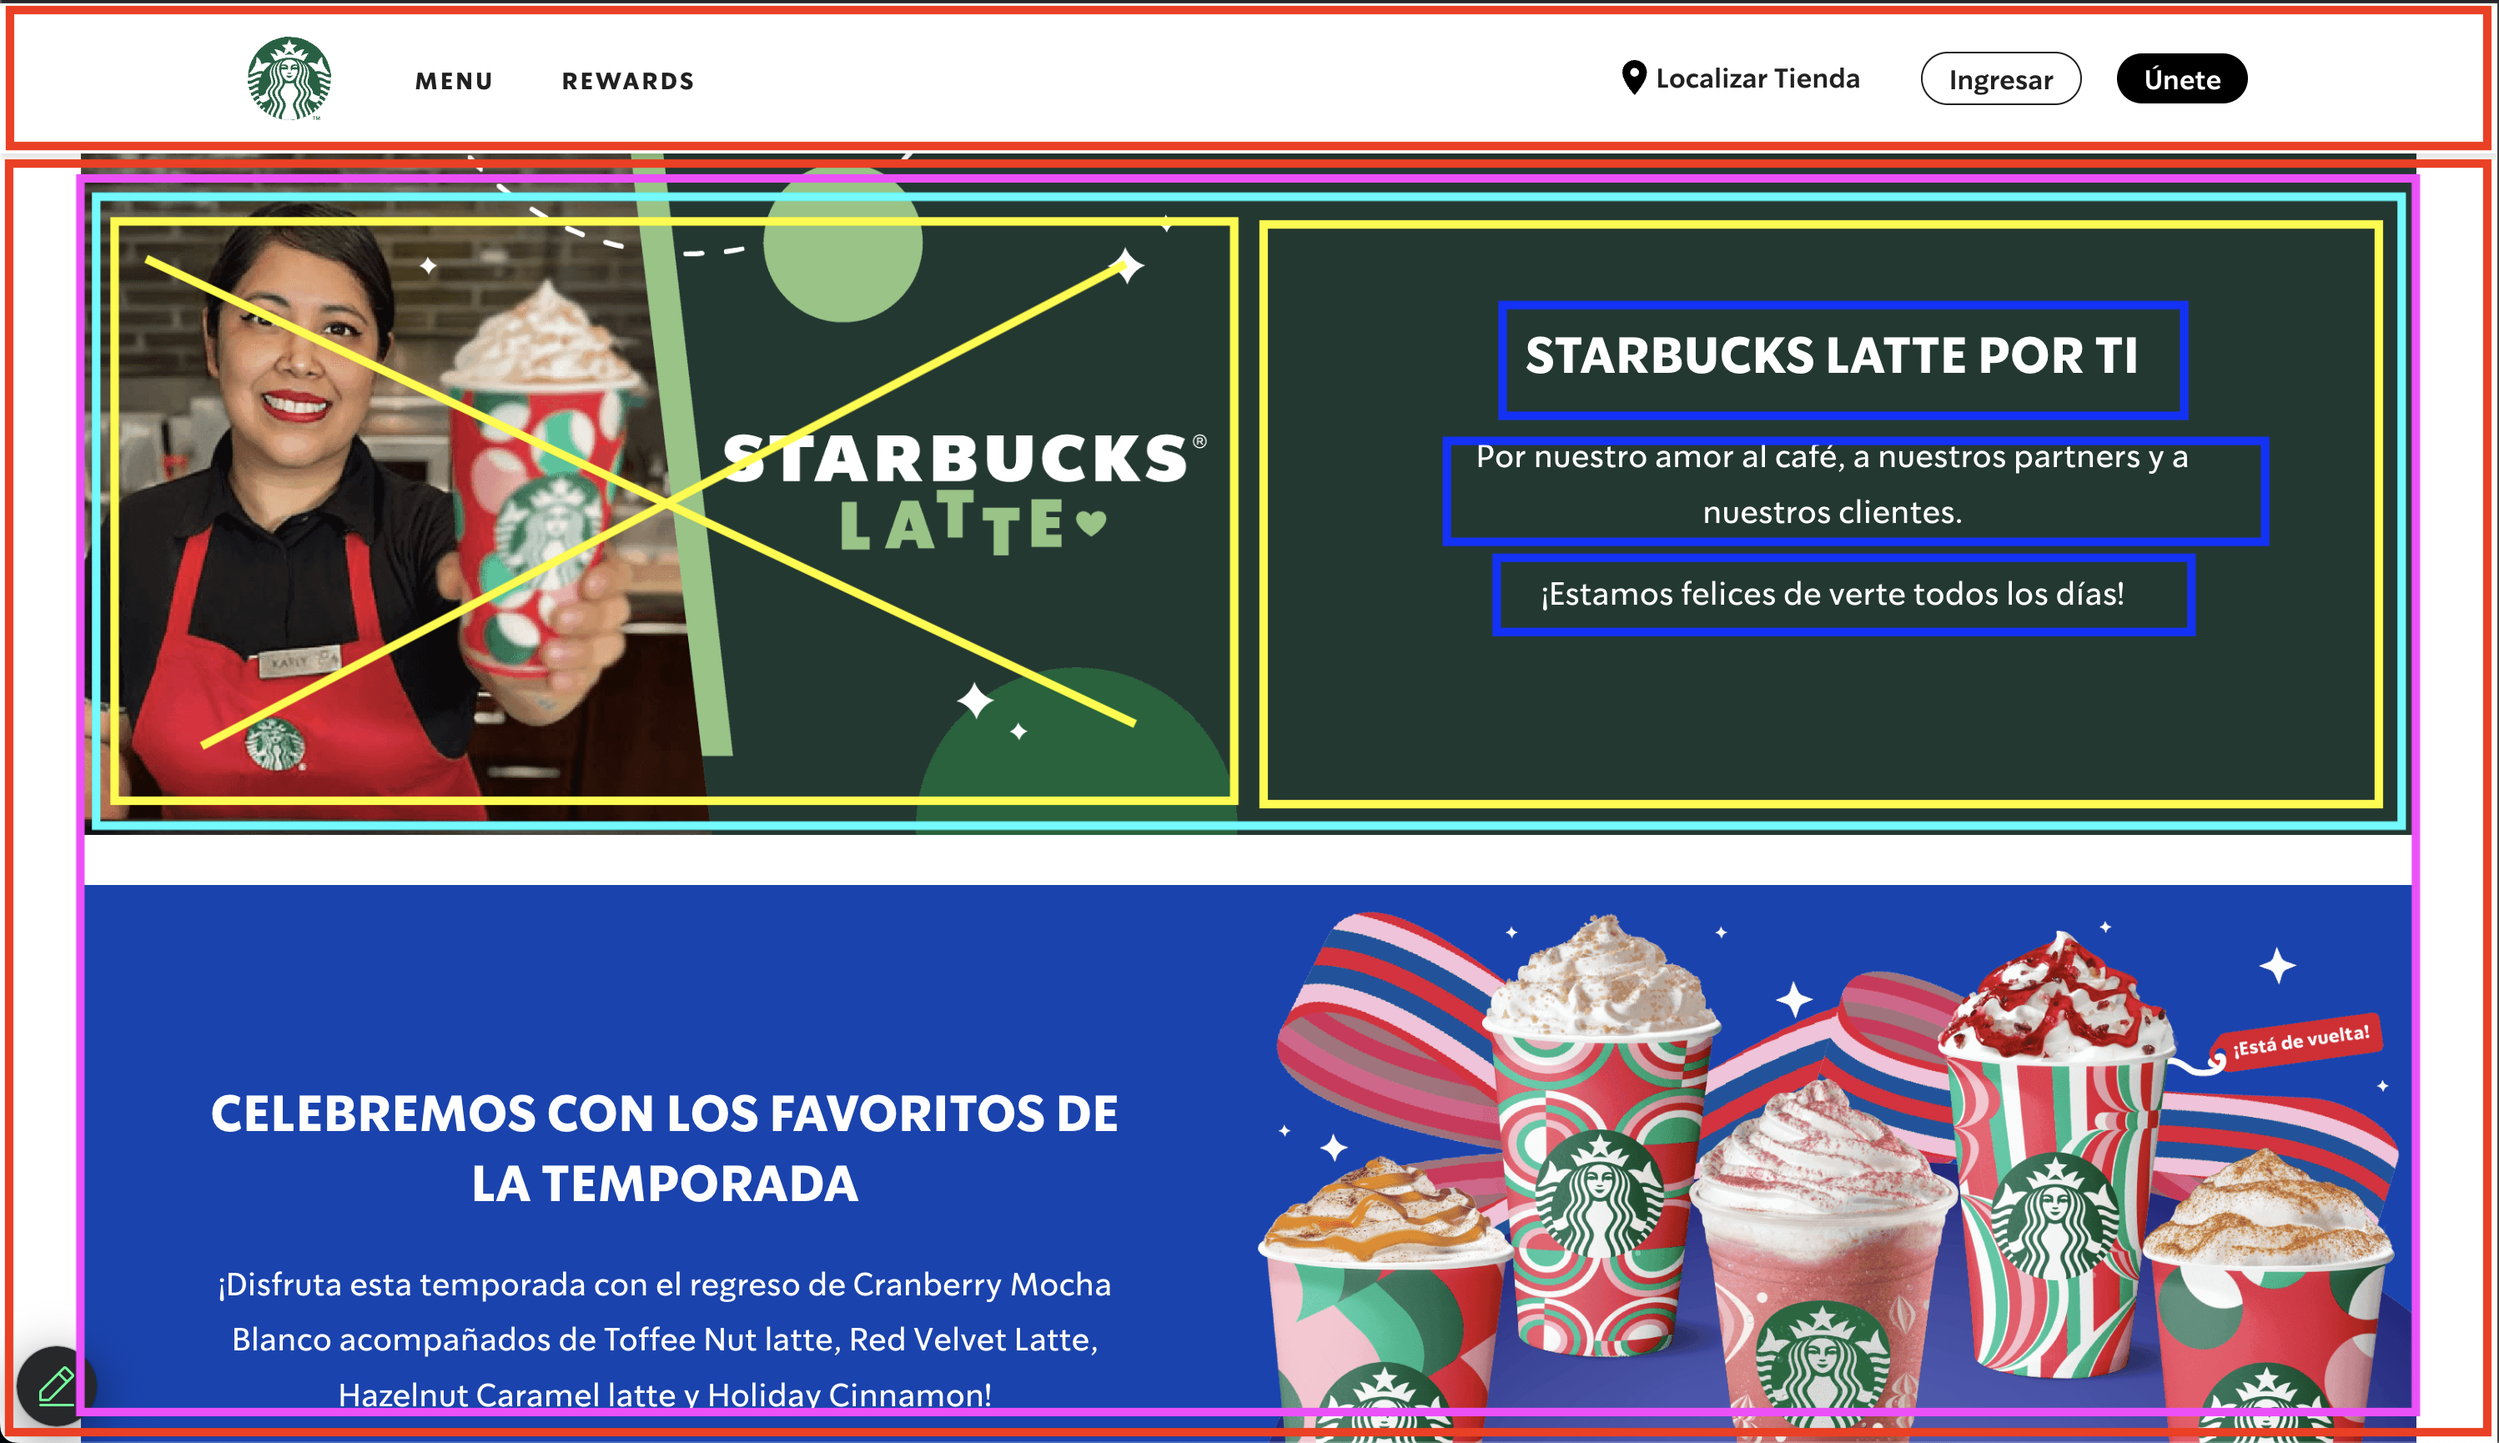
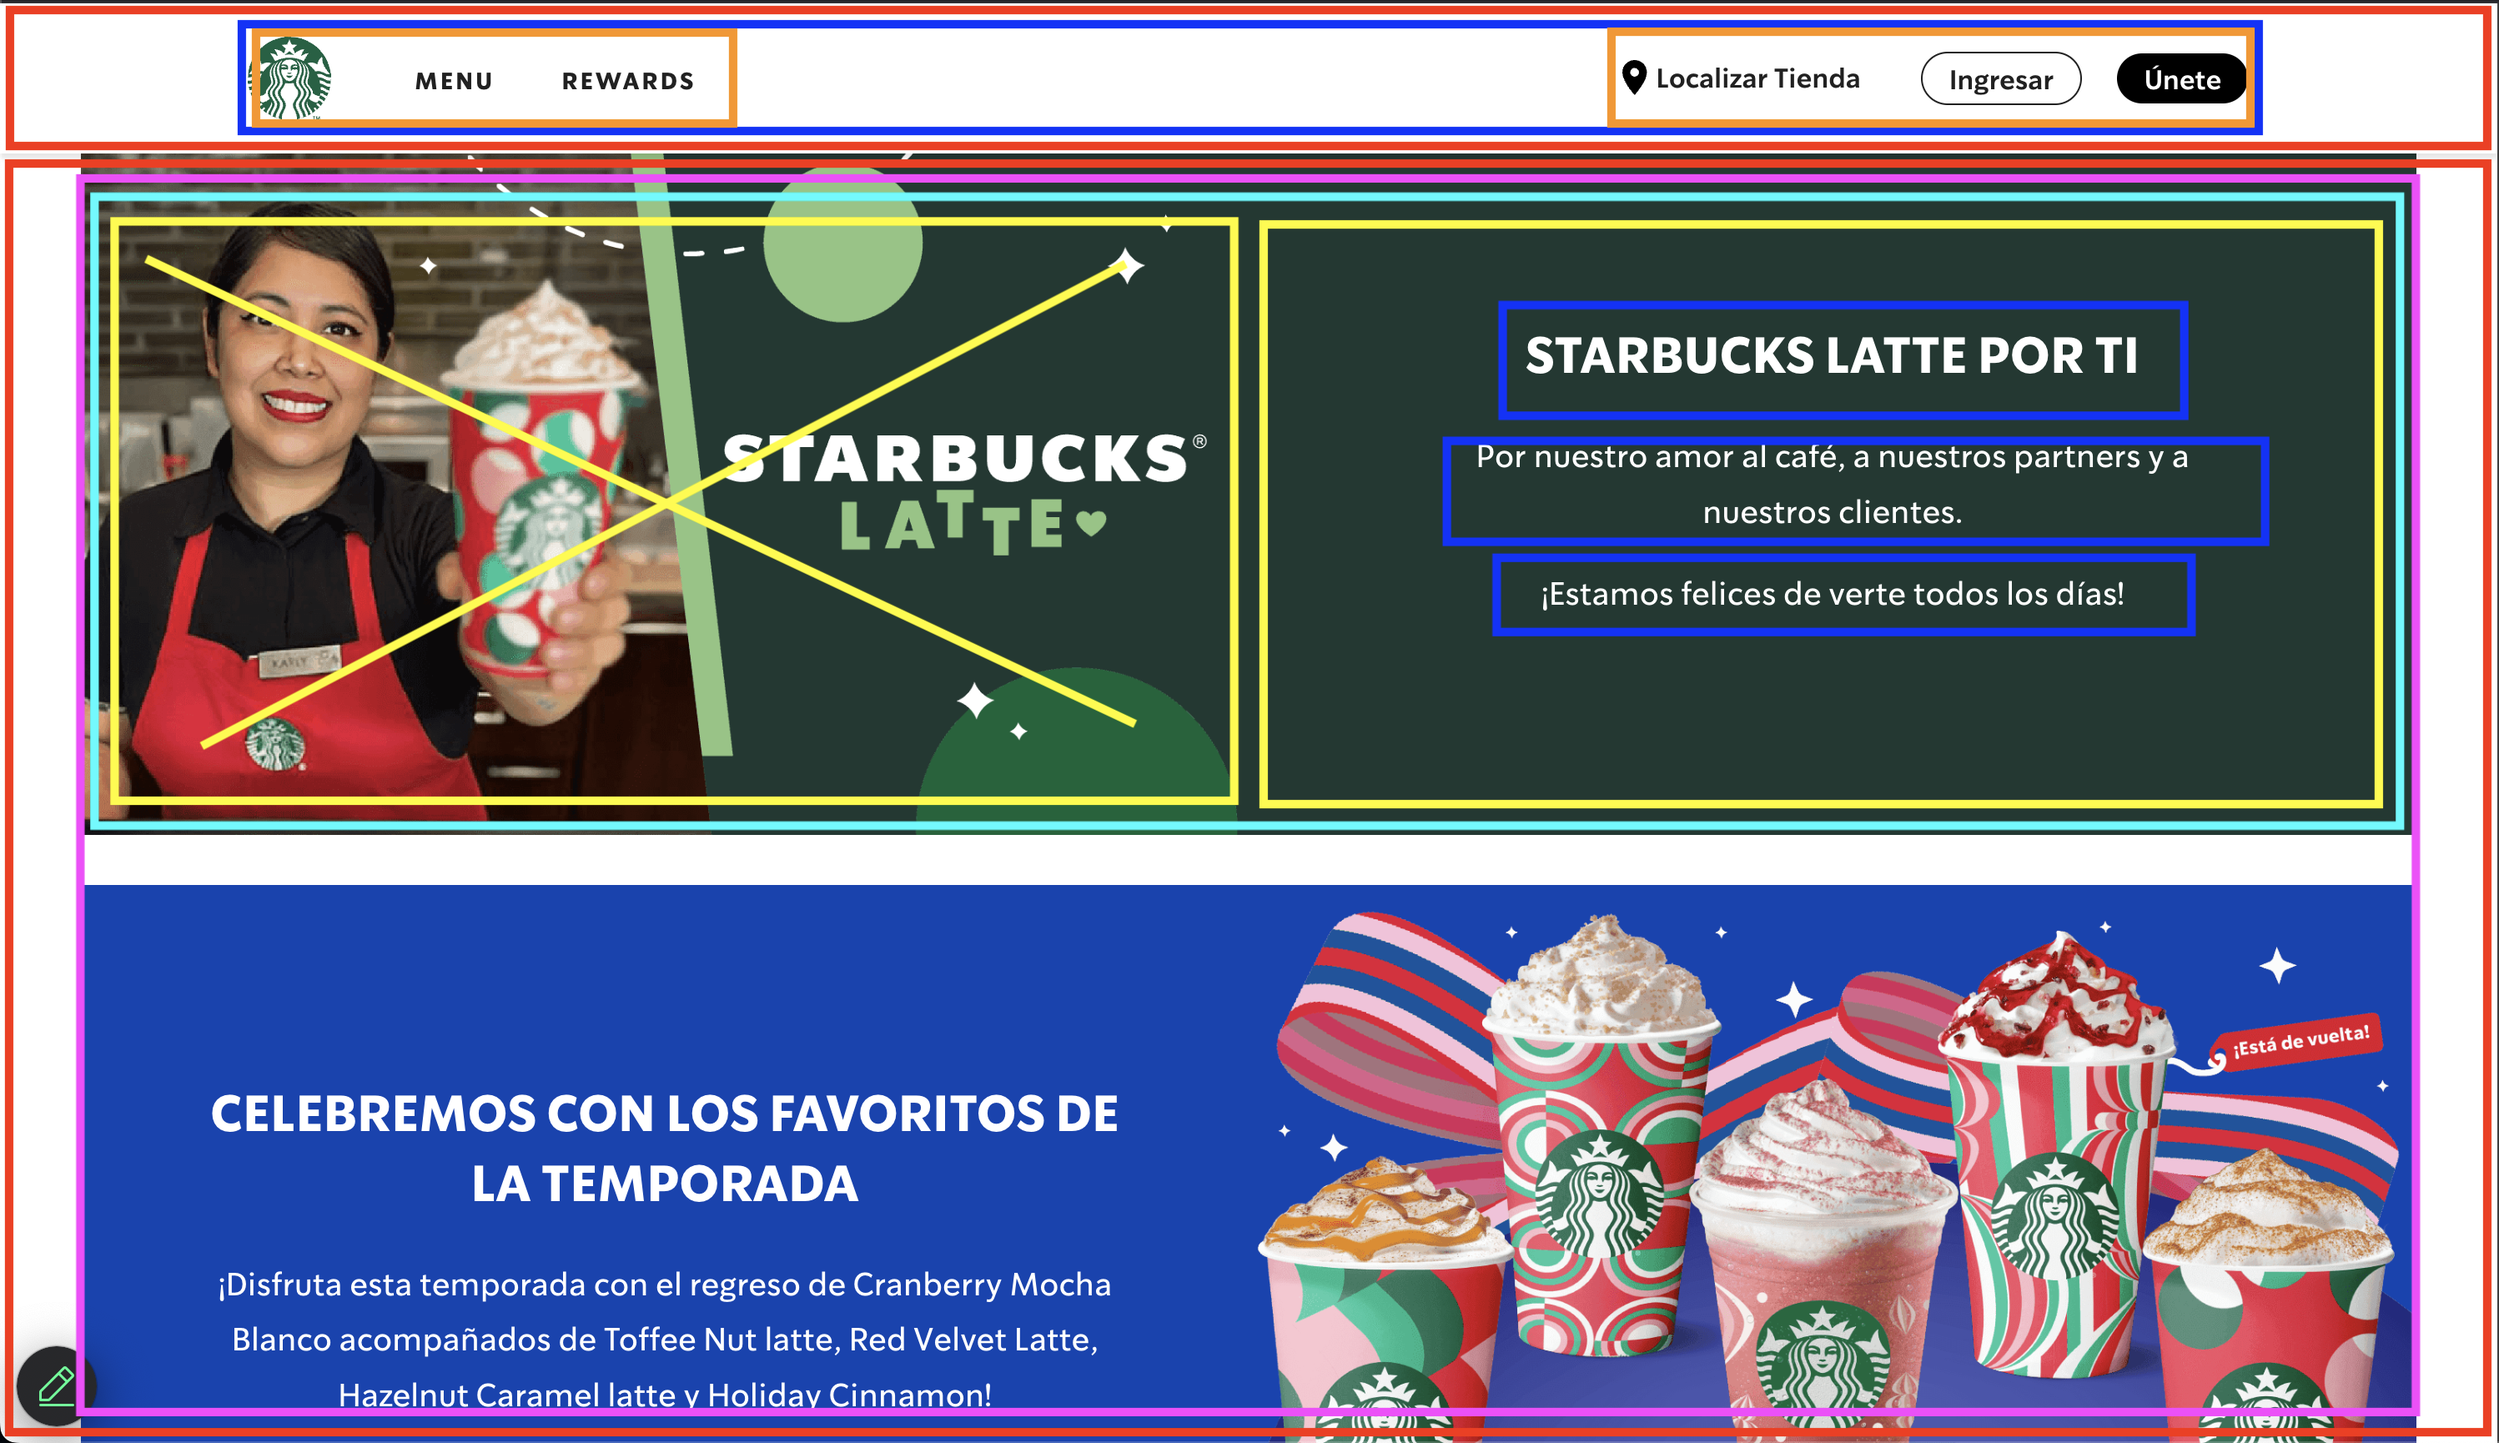
added: header and main sections

Changed region(s): [[0.0931, 0.0, 0.9312, 0.0936]]

diff --git a/starbucks/index.html b/starbucks/index.html
@@ -6,5 +6,100 @@
     <meta name="viewport" content="width=device-width, initial-scale=1.0" />
     <link rel="stylesheet" href="./styles/app.css" />
   </head>
-  <body></body>
+  <body>
+    <header class="shadow-down py-sm">
+      <nav class="container-md d-flex items-center space-bt">
+        <div class="d-flex items-center gap-md uppercase">
+          <h1>
+            <img width="50" height="50" src="./imgs/logo.svg" alt="" />
+          </h1>
+          <a href="#">menu</a>
+          <a href="#">rewards</a>
+        </div>
+        <div class="d-flex items-center gap-md capitalize">
+          <a href="#">
+            <img width="15" height="22" src="./imgs/stores.svg" alt="" />
+            localizar tienda
+          </a>
+          <a href="#" class="btn btn-secondary">ingresar</a>
+          <a href="#" class="btn btn-main">únete</a>
+        </div>
+      </nav>
+    </header>
+    <main>
+      <section class="container-lg">
+        <article class="card bg-green">
+          <img
+            class="img-fluid"
+            src="./imgs/webp/2024-11_2024-10_SB_Latte.webp"
+            alt=""
+          />
+          <div class="card-content">
+            <h2>STARBUCKS LATTE POR TI</h2>
+            <p>
+              Por nuestro amor al café, a nuestros partners y a nuestros
+              clientes.
+            </p>
+            <p>¡Estamos felices de verte todos los días!</p>
+          </div>
+        </article>
+        <article class="card bg-blue">
+          <img
+            class="img-fluid"
+            src="./imgs/webp/2024-11_HOLIDAY_2024-Spooky.webp"
+            alt=""
+          />
+          <div class="card-content">
+            <h2>STARBUCKS LATTE POR TI</h2>
+            <p>
+              Por nuestro amor al café, a nuestros partners y a nuestros
+              clientes.
+            </p>
+            <p>¡Estamos felices de verte todos los días!</p>
+          </div>
+        </article>
+        <article class="card bg-red">
+          <img class="img-fluid" src="./imgs/webp/2024-11_Merch.webp" alt="" />
+          <div class="card-content">
+            <h2>STARBUCKS LATTE POR TI</h2>
+            <p>
+              Por nuestro amor al café, a nuestros partners y a nuestros
+              clientes.
+            </p>
+            <p>¡Estamos felices de verte todos los días!</p>
+          </div>
+        </article>
+        <article class="card bg-green">
+          <img
+            class="img-fluid"
+            src="./imgs/webp/2024-11_starbucks_rewards.webp"
+            alt=""
+          />
+          <div class="card-content">
+            <h2>STARBUCKS LATTE POR TI</h2>
+            <p>
+              Por nuestro amor al café, a nuestros partners y a nuestros
+              clientes.
+            </p>
+            <p>¡Estamos felices de verte todos los días!</p>
+          </div>
+        </article>
+        <article class="card bg-red">
+          <img
+            class="img-fluid"
+            src="./imgs/webp/2024-11_2024-10_HOLIDAY_2024_Apple.webp"
+            alt=""
+          />
+          <div class="card-content">
+            <h2>STARBUCKS LATTE POR TI</h2>
+            <p>
+              Por nuestro amor al café, a nuestros partners y a nuestros
+              clientes.
+            </p>
+            <p>¡Estamos felices de verte todos los días!</p>
+          </div>
+        </article>
+      </section>
+    </main>
+  </body>
 </html>

diff --git a/starbucks/styles/app.css b/starbucks/styles/app.css
@@ -1,0 +1,114 @@
+* {
+  margin: 0;
+  padding: 0;
+}
+body {
+  font-family: system-ui, -apple-system;
+}
+a {
+  color: black;
+  text-decoration: none;
+}
+img {
+  vertical-align: middle;
+}
+.img-fluid {
+  width: 100%;
+}
+.container-md {
+  width: 80%;
+  max-width: 1440px;
+  margin: 0 auto;
+}
+.container-lg {
+  width: 90%;
+  max-width: 1440px;
+  margin: 0 auto;
+}
+.d-flex {
+  display: flex;
+}
+.items-center {
+  align-items: center;
+}
+.space-bt {
+  justify-content: space-between;
+}
+.gap-sm {
+  gap: 1rem;
+}
+.gap-md {
+  gap: 2rem;
+}
+.gap-lg {
+  gap: 4rem;
+}
+.py-sm {
+  padding: 1.25rem 0;
+}
+.py-md {
+  padding: 3rem 0;
+}
+.py-lg {
+  padding: 5rem 0;
+}
+.capitalize {
+  text-transform: capitalize;
+}
+.uppercase {
+  text-transform: uppercase;
+}
+.btn {
+  padding: 0.4rem 1rem;
+  border-radius: 1rem;
+}
+.btn-main {
+  background: black;
+  color: white;
+}
+.btn-secondary {
+  border: 1px solid black;
+}
+.shadow-down {
+  box-shadow: 0px 3px 3px 0px rgba(0, 0, 0, 0.1);
+}
+.shadow-up {
+  box-shadow: 0px -3px 3px 0px rgba(0, 0, 0, 0.1);
+}
+.bg-green {
+  background: #1e3932;
+}
+.bg-blue {
+  background: #0044b4;
+}
+.bg-red {
+  background: #d50032;
+}
+.card {
+  display: grid;
+  grid-template-columns: repeat(2, 1fr);
+  align-items: center;
+}
+.card:nth-child(even) img {
+  order: 2;
+}
+.card:nth-child(even) .card-content {
+  order: 1;
+}
+.card-content {
+  color: white;
+  text-align: center;
+  display: grid;
+  gap: 2rem;
+  padding: 0 4rem;
+}
+.card-content h2 {
+  font-size: 1.875em;
+}
+.card-content p {
+  font-size: 1.1875em;
+}
+main section {
+  display: grid;
+  gap: 2rem;
+}
